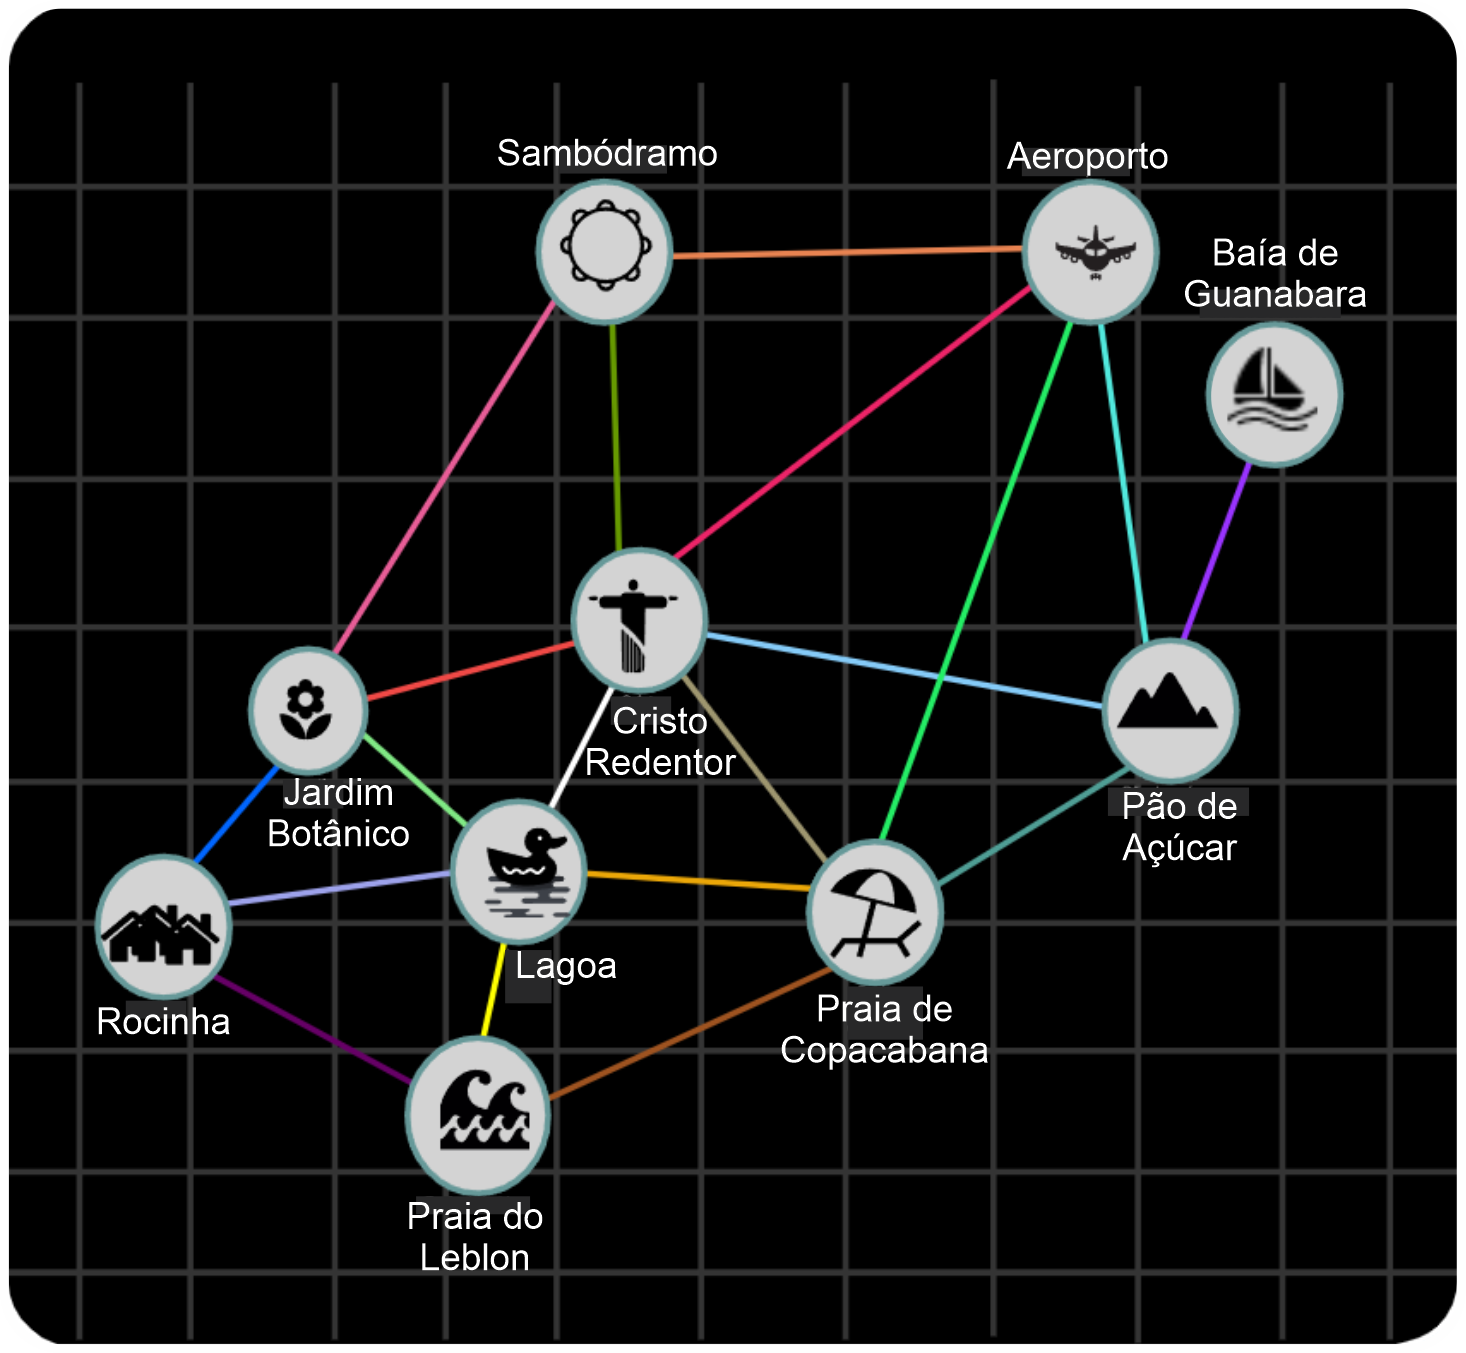
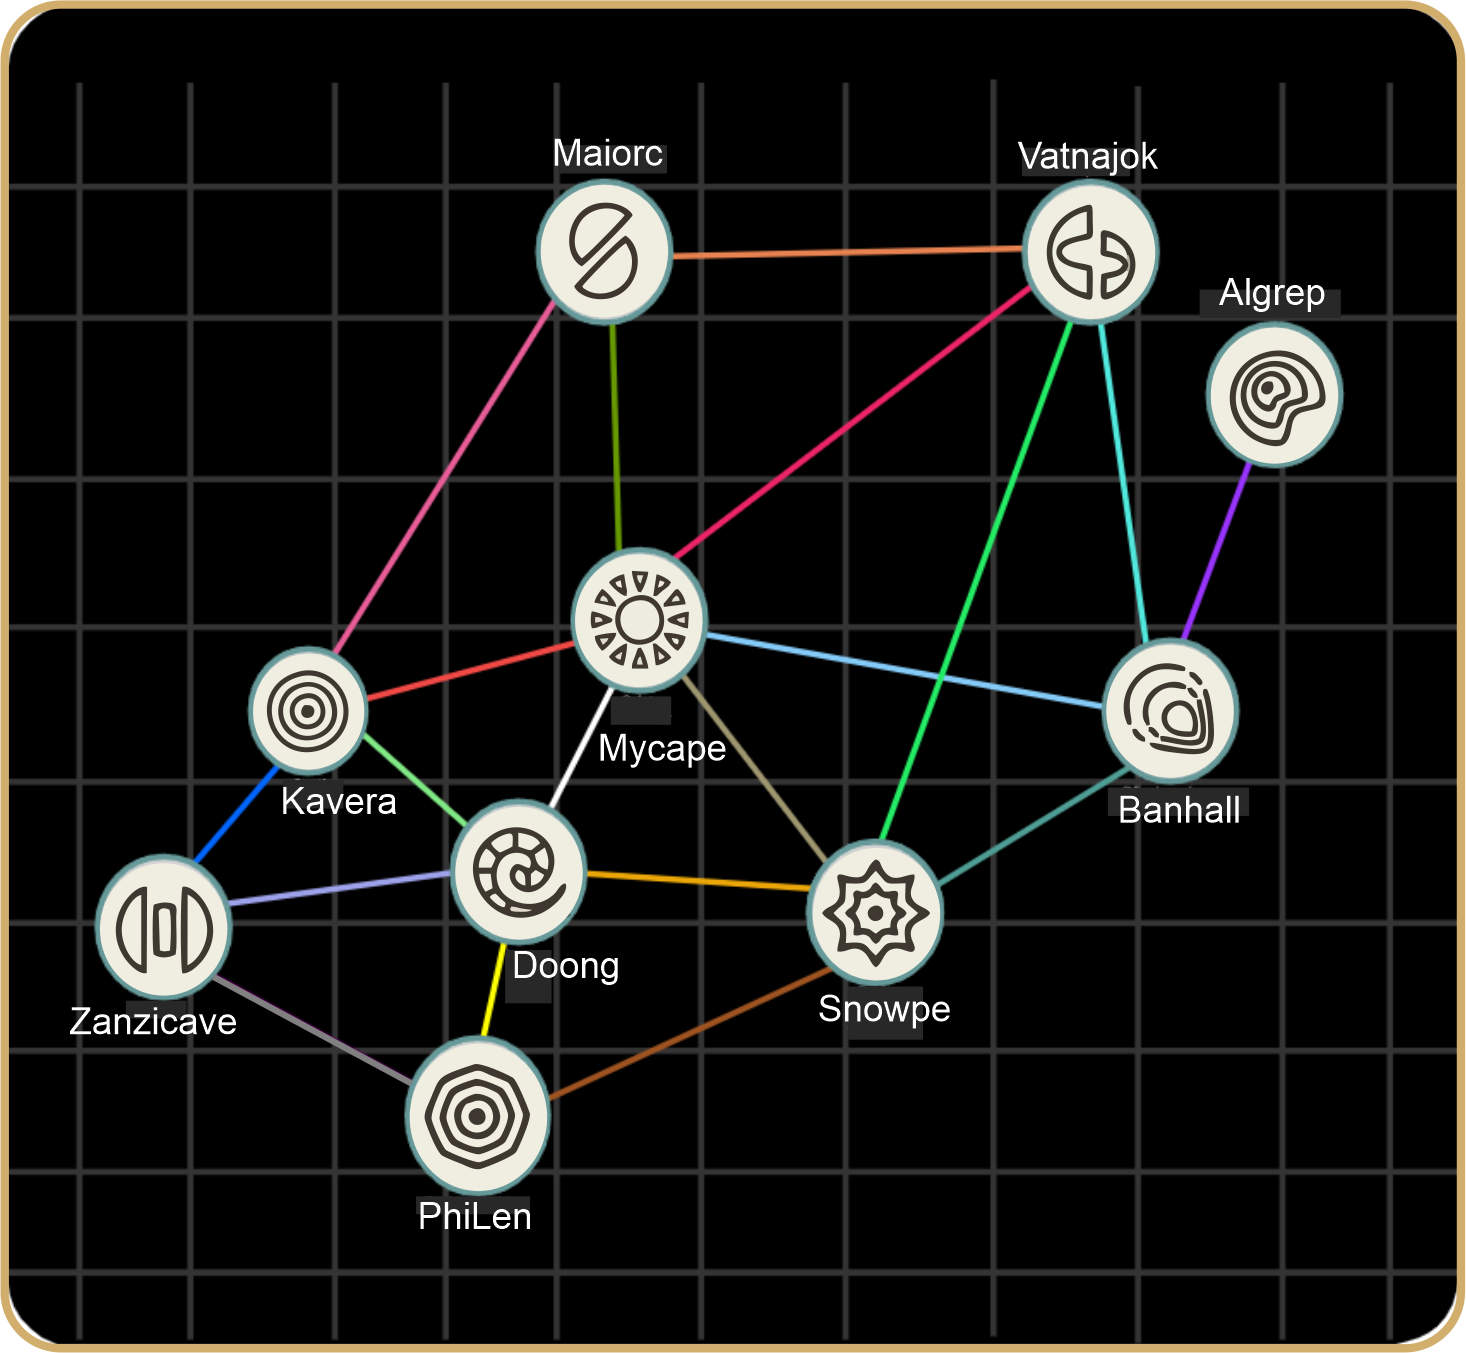
Upgrade Modo Grafos2 - Prim

diff --git a/templates/prim.html b/templates/prim.html
@@ -25,8 +25,8 @@
     </div>
 
 
-    <div class="img-caminho">
-        <img class="img-caminho" src="../static/img/grafo_fixo.png">
+    <div class="img-caminho-prim">
+        <img class="img-caminho-prim" src="../static/img/grafo_fixo.png">
     </div>
 
     <div class="caminho">
@@ -64,33 +64,33 @@
         <p class="impact-text">Seu objetivo aqui é descobrir qual o menor custo para conectar todos os pontos do mapa
         </p>
         <div class="group">
-            <h1 class="aresta1">* Praia Leblon - Rocinha: R$ {{aresta1}},00</h1>
-            <h1 class="aresta2">* Praia Leblon - Lagoa: R$ {{aresta2}},00</h1>
-            <h1 class="aresta3">* Praia Leblon - Praia Copacabana: R$ {{aresta3}},00</h1>
-            <h1 class="aresta4">* Lagoa - Rocinha: R$ {{aresta4}},00</h1>
-            <h1 class="aresta5">* Jardim Botânico - Rocinha: R$ {{aresta5}},00</h1>
-            <h1 class="aresta6">* Jardim Botânico - Lagoa: R$ {{aresta6}},00</h1>
-            <h1 class="aresta7">* Cristo Redentor - Jardim Botânico: R$ {{aresta7}},00</h1>
-            <h1 class="aresta8">* Sambódramo - Jardim Botânico: R$ {{aresta8}},00</h1>
-            <h1 class="aresta9">* Sambódromo - Cristo: R$ {{aresta9}},00</h1>
-            <h1 class="aresta10">* Aeroporto - Cristo Redentor: R$ {{aresta10}},00</h1>
-            <h1 class="aresta11">* Aeroporto - Sambódromo: R$ {{aresta11}},00</h1>
-            <h1 class="aresta12">* Praia de Copacabana - Cristo Redentor: R$ {{aresta12}},00</h1>
-            <h1 class="aresta13">* Pão de Açúcar - Cristo Redentor: R$ {{aresta13}},00</h1>
-            <h1 class="aresta14">* Praia de Copacabana - Lagoa: R$ {{aresta14}},00</h1>
-            <h1 class="aresta15">* Aeroporto - Praia de Copacabana: R${{aresta15}},00</h1>
-            <h1 class="aresta16">* Aeroporto - Pão de Açúcar: R$ {{aresta16}},00</h1>
-            <h1 class="aresta17">* Pão de Açúcar - Praia de Copacabana: R$ {{aresta17}},00</h1>
-            <h1 class="aresta18">* Pão de Açúcar - Baia de Guanabara: R$ {{aresta18}},00</h1>
-            <h1 class="aresta19">* Lagoa - Cristo Redentor: R$ {{aresta19}},00</h1>
+            <h1 class="aresta1">* PhiLen - Zanzicave: R$ {{aresta1}},00</h1>
+            <h1 class="aresta2">* PhiLen - Doong: R$ {{aresta2}},00</h1>
+            <h1 class="aresta3">* PhiLen - Snowpe: R$ {{aresta3}},00</h1>
+            <h1 class="aresta4">* Doong - Zanzicave: R$ {{aresta4}},00</h1>
+            <h1 class="aresta5">* Kavera - Zanzicave: R$ {{aresta5}},00</h1>
+            <h1 class="aresta6">* Kavera - Doong: R$ {{aresta6}},00</h1>
+            <h1 class="aresta7">* Mycape - Kavera: R$ {{aresta7}},00</h1>
+            <h1 class="aresta8">* Maiorc - Kavera: R$ {{aresta8}},00</h1>
+            <h1 class="aresta9">* Maiorc - Mycape: R$ {{aresta9}},00</h1>
+            <h1 class="aresta10">* Vatnajok - Mycape: R$ {{aresta10}},00</h1>
         </div>
-        <p class="impact-text">RESULTADO</p>
+        <div class="group-prim">
+            <h1 class="aresta11">* Vatnajok - Maiorc: R$ {{aresta11}},00</h1>
+            <h1 class="aresta12">* Snowpe - Mycape: R$ {{aresta12}},00</h1>
+            <h1 class="aresta13">* Banhall - Mycape: R$ {{aresta13}},00</h1>
+            <h1 class="aresta14">* Snowpe - Doong: R$ {{aresta14}},00</h1>
+            <h1 class="aresta15">* Vatnajok - Snowpe: R${{aresta15}},00</h1>
+            <h1 class="aresta16">* Vatnajok - Banhall: R$ {{aresta16}},00</h1>
+            <h1 class="aresta17">* Banhall - Snowpe: R$ {{aresta17}},00</h1>
+            <h1 class="aresta18">* Banhall - Algrep: R$ {{aresta18}},00</h1>
+            <h1 class="aresta19">* Doong - Mycape: R$ {{aresta19}},00</h1>
+        </div>
         <h1 class="resultado">{{resultado}}</h1>
         <br>
-        <p class="impact-text">TOTAL</p>
-        <h1 class="resultado">R$ {{total}},00</h1>
+        <h1 class="resultado">Resposta: {{total}},00</h1>
         <form class="knapsack" action="" method="post">
-            <h1> Qual o menor custo para visitar todos os pontos
+            <h1> Qual o menor custo para visitar todos os pontos?
             </h1>
             <div class="envio">
                 <input type="number" name="valor" required>

diff --git a/static/css/style.css b/static/css/style.css
@@ -333,87 +333,124 @@ table {
 }
 
 .aresta1 {
-    color: #660066
+    font-size: 25px;
+    color: gray;
 }
 
 .aresta2 {
+    font-size: 25px;
     color: yellow;
 }
 
 .aresta3 {
+    font-size: 25px;
     color: #9E5320
 }
 
 .aresta4 {
+    font-size: 25px;
     color: #9DA2EB
 }
 
 .aresta5 {
+    font-size: 25px;
     color: #0066FF
 }
 
 .aresta6 {
+    font-size: 25px;
     color: #80E884
 }
 
 .aresta7 {
+    font-size: 25px;
     color: #F04946
 }
 
 .aresta8 {
+    font-size: 25px;
     color: #E85D97
 }
 
 .aresta9 {
+    font-size: 25px;
     color: #669900
 }
 
 .aresta10 {
+    font-size: 25px;
     color: #ED2468
 }
 
 .aresta11 {
+    font-size: 25px;
     color: #E88351
 }
 
 .aresta12 {
+    font-size: 25px;
     color: #9E966F
 }
 
 .aresta13 {
+    font-size: 25px;
     color: #85CBF8
 }
 
 .aresta14 {
+    font-size: 25px;
     color: #EBA708
 }
 
 .aresta15 {
+    font-size: 25px;
     color: #24ED65
 }
 
 .aresta16 {
+    font-size: 25px;
     color: #51E8DD
 }
 
 .aresta17 {
+    font-size: 25px;
     color: #4F9E95
 }
 
 .aresta18 {
+    font-size: 25px;
     color: #9933FF
 }
 
 .aresta19 {
-    color: white
+    font-size: 25px;
+    color: white;
 }
 
+.group{
+    float: left;
+}
 .resultado {
-    display: block;
+    margin-top: 20px;
     font-size: 20px;
     align-items: center;
+    transform: rotate(180deg);
+    color: gray;
 }
 
+.img-caminho-prim{
+    width: 530px;
+    height: 480px;
+    display: flex;
+    margin-top: 20px;
+    margin-left: 50px;
+    margin-right: 0px;
+    float: left;
+}
+
+.group-prim{
+    font-size: 5px;
+}
 
  /* Cards Tela principal */
 .headLiner{
@@ -468,7 +505,7 @@ table {
     font-family: 'Segoe UI', Tahoma, Geneva, Verdana, sans-serif;
 }
 
-.CardMusic:hover {
+.CardModo:hover {
     transform: translateY(-5px);
 	box-shadow: 0px 10px 10px rgba(0,0,0,0.4);
     cursor: pointer;

diff --git a/funcoes.py b/funcoes.py
@@ -34,8 +34,8 @@ def mudarValoresKnapSack(W, wt, val, n):
 
 
 # --- Grafos 2 - PRIM ---
-vetorPontosTuristicos = ["Praia Leblon", "Rocinha", "Lagoa", "Jardim Botânico", " Cristo Redentor",
-                         "Sambódramo", "Aeroporto", "Praia de Copacabana", "Pão De Açúcar", "Baía de Guanabara"
+vetorPontosTuristicos = ["PhiLen", "Zanzicave", "Doong", "Kavera", "Mycape",
+                         "Maiorc", "Vatnajok", "Snowpe", "Banhall", "Algrep"
                          ]
 
 
